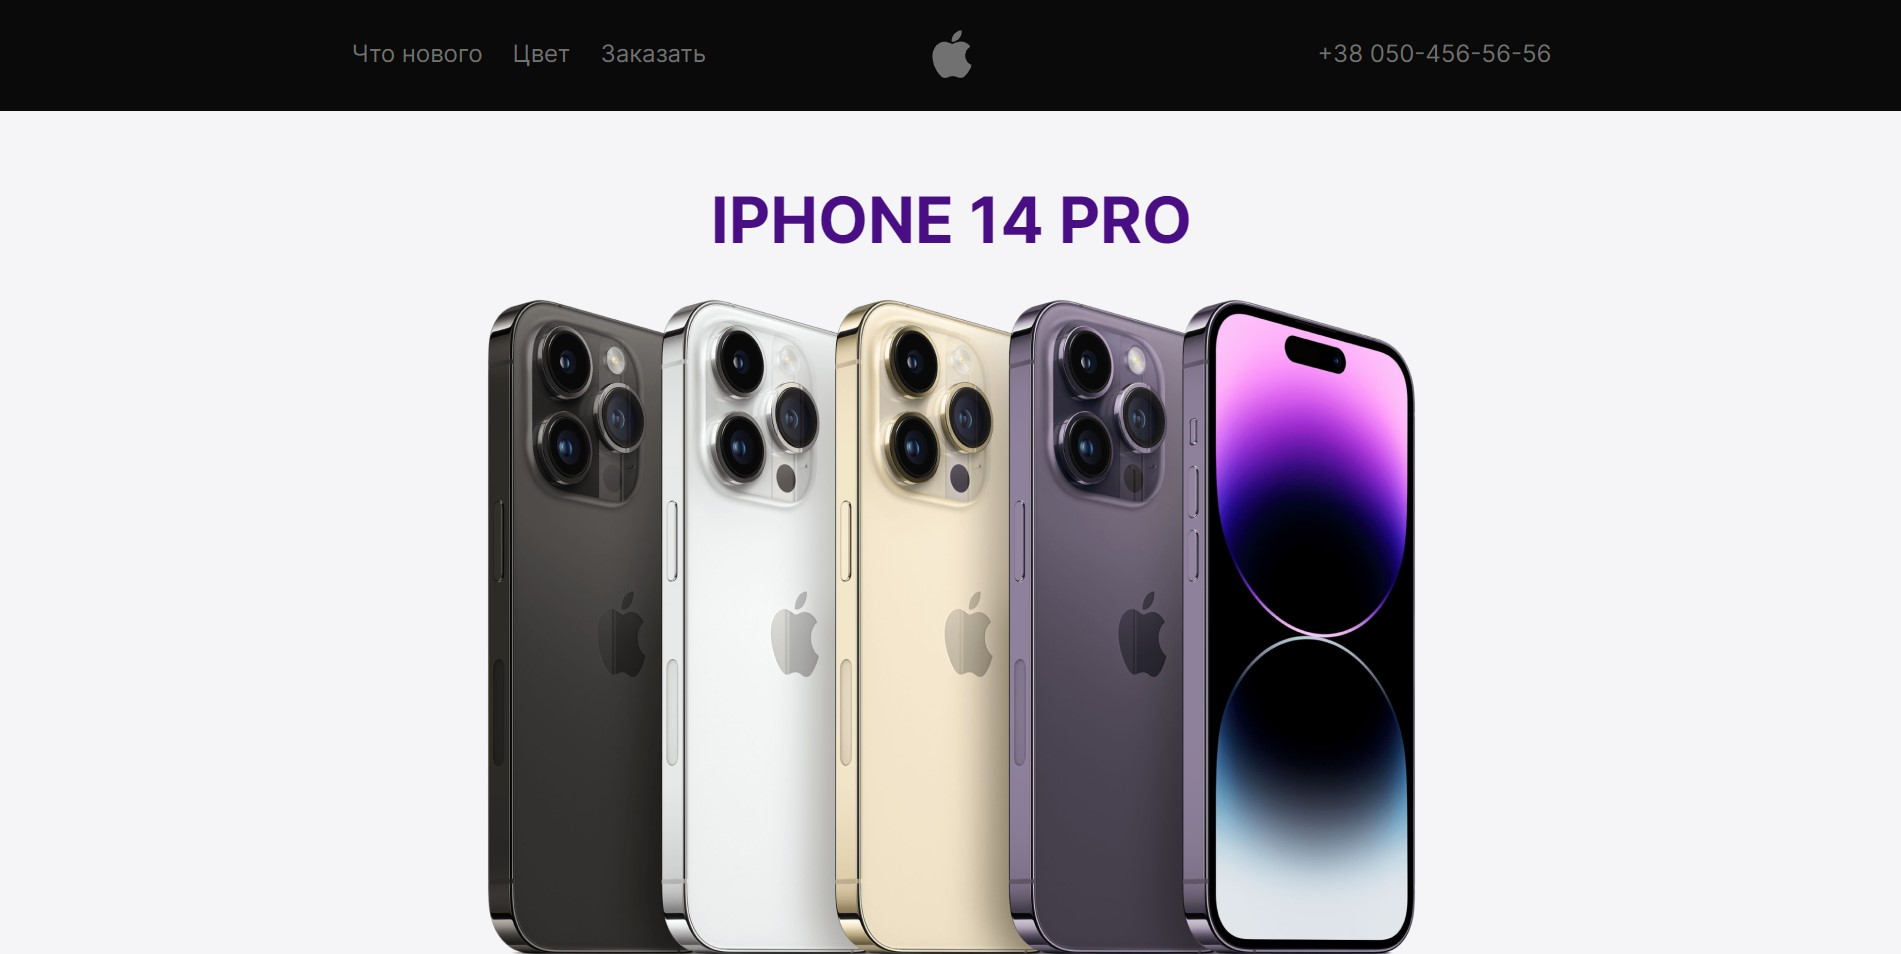
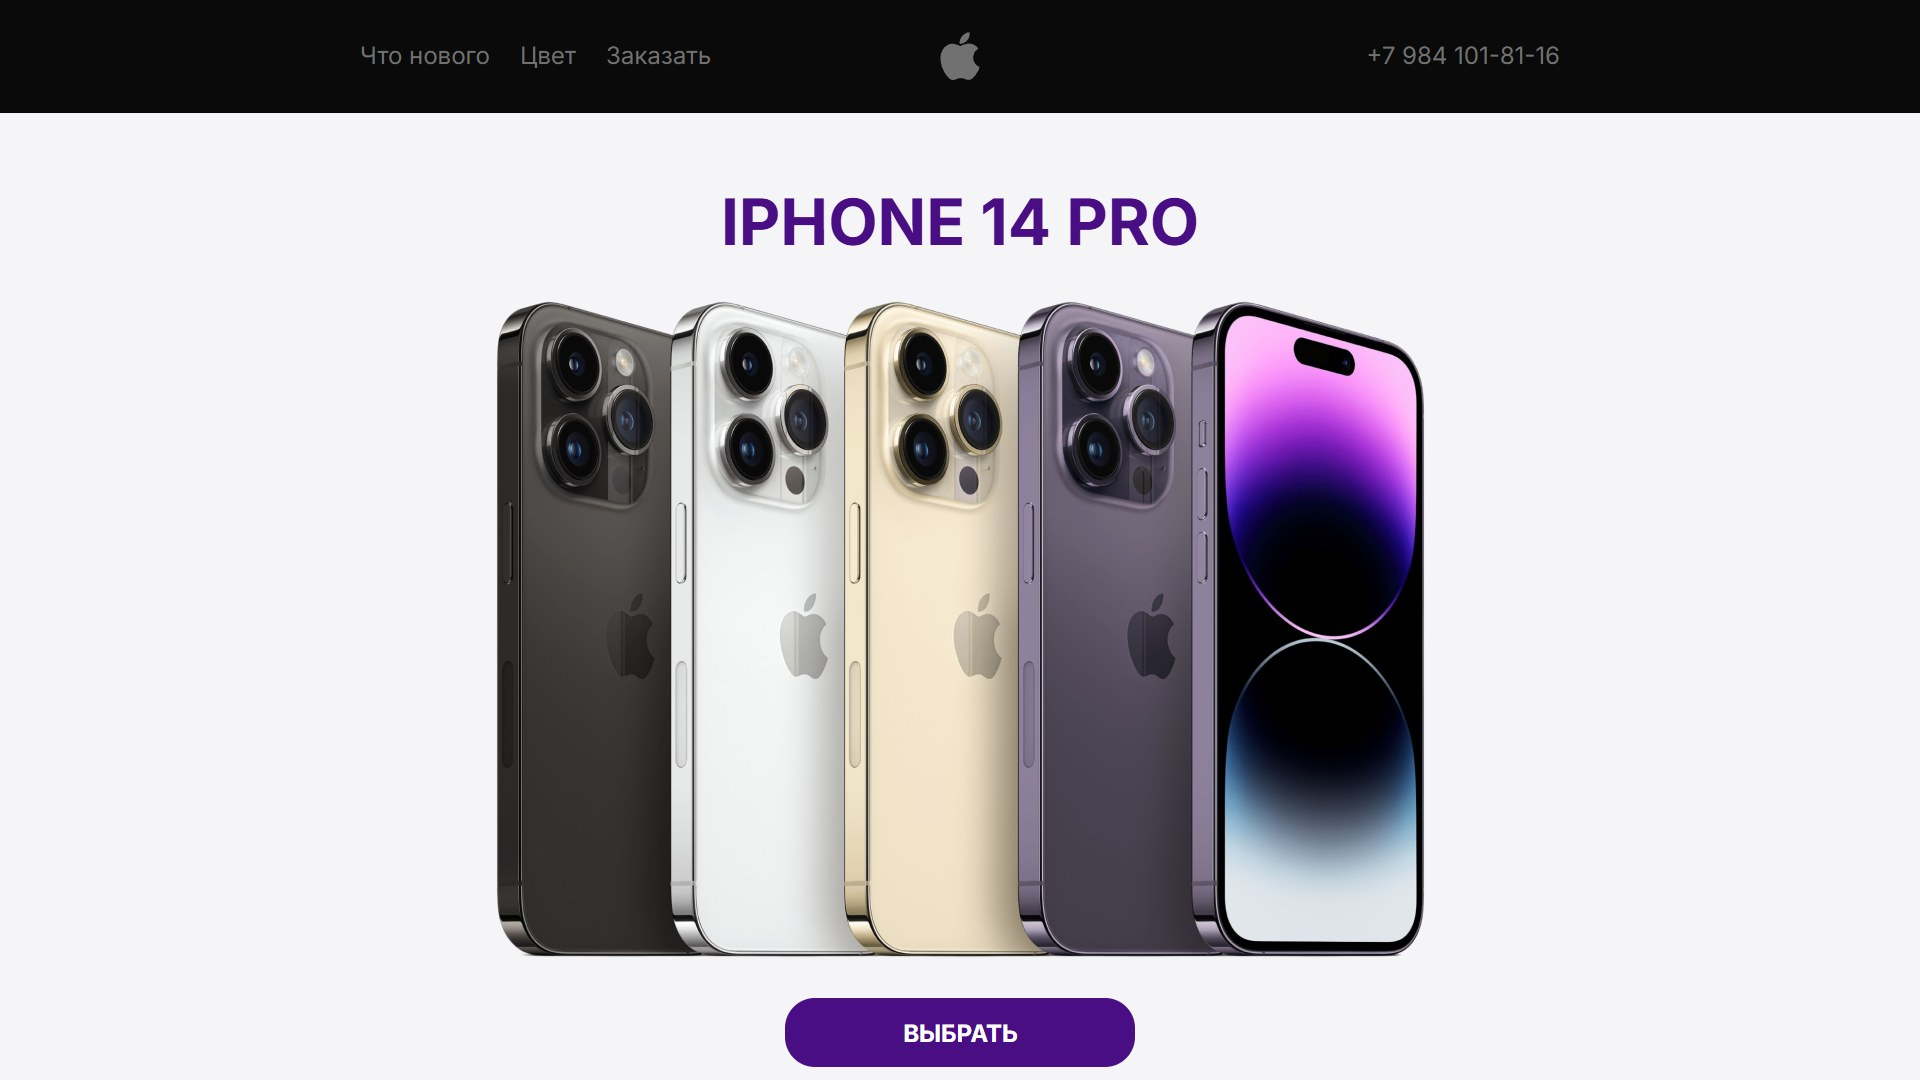
Доработка: meta description, единый телефон, якорь кнопки, опечатки, новый README

diff --git a/index.html b/index.html
@@ -1,11 +1,11 @@
 <!DOCTYPE html>
-<html lang="en">
+<html lang="ru">
 <head>
     <meta charset="UTF-8">
     <meta http-equiv="X-UA-Compatible" content="IE=edge">
     <meta name="viewport" content="width=device-width, initial-scale=1.0">
-    <meta name="description" content="Тренеровачная вёрстка">
-    <meta name="keywords" content="html, css, figma,">
+    <meta name="description" content="iPhone 14 Pro — лендинг: чип A16 Bionic, камера 48 Мп, дисплей ProMotion 120 Гц. Выбери свой цвет.">
+    <meta name="keywords" content="iPhone 14 Pro, Apple, лендинг, верстка">
     <title>Iphone 14 Pro</title>
     <link rel="stylesheet" href="./css/main.css">
     <link rel="stylesheet" href="./css/media.css">
@@ -29,7 +29,7 @@
                         <li class="nav-item"><a class="nav-item-link js-scroll" href="#cta">Заказать</a></li>
                     </ul>
                 </nav>
-                <a href="tel:+79841018116" class="header-tel">+38 050-456-56-56</a>
+                <a href="tel:+79841018116" class="header-tel">+7 984 101-81-16</a>
             </div>
         </div>
     </header>
@@ -41,7 +41,7 @@
                     <div class="intro-img">
                         <img src="./img/intro/finish_unselect_gallery.png" alt="IPHONE 14 PRO">
                     </div>
-                    <a href="#!" class="intro-button">ВЫБРАТЬ</a>
+                    <a href="#color" class="intro-button js-scroll">ВЫБРАТЬ</a>
                 </div>
             </div>
         </div>
@@ -82,7 +82,7 @@
                                 <img src="./img/colors/purple.jpg" alt="purple">
                             </div>
                             <h3 class="color-item-title">Deep purple</h3>
-                            <span class="color-item-title-translation">Темно фиолетовый</span>
+                            <span class="color-item-title-translation">Тёмно-фиолетовый</span>
                         </div>
                         <div class="color-item">
                             <div class="color-item-img">
@@ -96,7 +96,7 @@
                                 <img src="./img/colors/black.jpg" alt="black">
                             </div>
                             <h3 class="color-item-title">Space Black</h3>
-                            <span class="color-item-title-translation">Космический черный</span>
+                            <span class="color-item-title-translation">Космический чёрный</span>
                         </div>
 
                     </div>
@@ -127,7 +127,7 @@
                     <img src="./img/svg/logo.svg" alt="logo" class="logo-img">
                 </a>
                 <a href="#!" class="footer-conf">Политика конфиденциальности</a>
-                <a href="tel:+79841018116" class="footer-tel">+38 050-456-56-56</a>
+                <a href="tel:+79841018116" class="footer-tel">+7 984 101-81-16</a>
             </div>
         </div>
     </footer>

diff --git a/README.md b/README.md
@@ -1,20 +1,43 @@
-# Iphone_14_Pro
-## Landing page
+# 📱 iPhone 14 Pro — продуктовый лендинг
 
-[>>> Просмотр страницы Iphone_14_Pro <<<](https://pavelreb.github.io/Iphone_14_Pro/)
+Адаптивный лендинг-презентация iPhone 14 Pro, свёрстанный с нуля по макету Figma. Продуктовая подача в стиле Apple: крупный первый экран, преимущества, выбор цвета и форма заказа.
 
-![This is an image](https://raw.githubusercontent.com/Pavelreb/Iphone_14_Pro/master/img/first-screen.jpg)
+[>>> Открыть сайт <<<](https://pavelreb.github.io/Iphone_14_Pro/)
 
-### Описание проекта:
-Обучающая верстка сайта с нуля с использованием графического редактора FIGMA, для написания кода использовался текстовый редактор Visual Studio Code макет свёрстан адаптивным и кросбраузерным.
+![Первый экран](img/first-screen.jpg)
 
-### В вёрстке использовались технологии:
-- HyperText Markup Language HTML5
-- Cascading Style Sheets CSS3
-- CSS Flexible Box Layout (Flexbox)
-- JavaScript EC6
+## ✨ Что внутри
 
-### Материалы проекта:
-Ссылка на макет Figma: [Перейти](https://www.figma.com/file/MT00zFN9AF7qUDVwlpIQXo/Iphone-14-pro)
+- 🖥 **Первый экран** с крупным рендером iPhone и кнопкой «Выбрать»
+- 🆕 **Что нового** — A16 Bionic, камера 48 Мп, ProMotion 120 Гц
+- 🎨 **Выбери свой цвет** — Silver, Deep Purple, Gold, Space Black
+- 🛒 **Форма заказа** — имя и телефон, CTA-блок
+- 🍔 **Бургер-меню** и плавный скролл к якорям
 
-Ссылка на видео урок на YouTube: [Смотреть](https://youtu.be/2dVPFVX3ZZ0)
+## 🛠 Технологии
+
+| Технология | Применение |
+|------------|-----------|
+| **HTML5** | Семантическая разметка |
+| **CSS3 (Flexbox / Grid)** | Раскладка секций |
+| **Media Queries** | Адаптив под десктоп, планшет и мобильные |
+| **JavaScript (ES6)** | Бургер-меню и плавный скролл с easing-анимацией |
+| **Figma** | Вёрстка по макету |
+
+## 🚀 Запуск
+
+Сборка не требуется — достаточно открыть `index.html` в браузере или развернуть на любом статическом хостинге (GitHub Pages, Netlify, Vercel).
+
+## 📁 Структура
+
+```
+Iphone_14_Pro/
+├── index.html      # Разметка страницы
+├── css/
+│   ├── main.css    # Основные стили
+│   ├── media.css   # Адаптив
+│   └── reset.css   # Сброс стилей
+├── js/
+│   └── main.js     # Меню и скролл
+└── img/            # Изображения и SVG
+```
